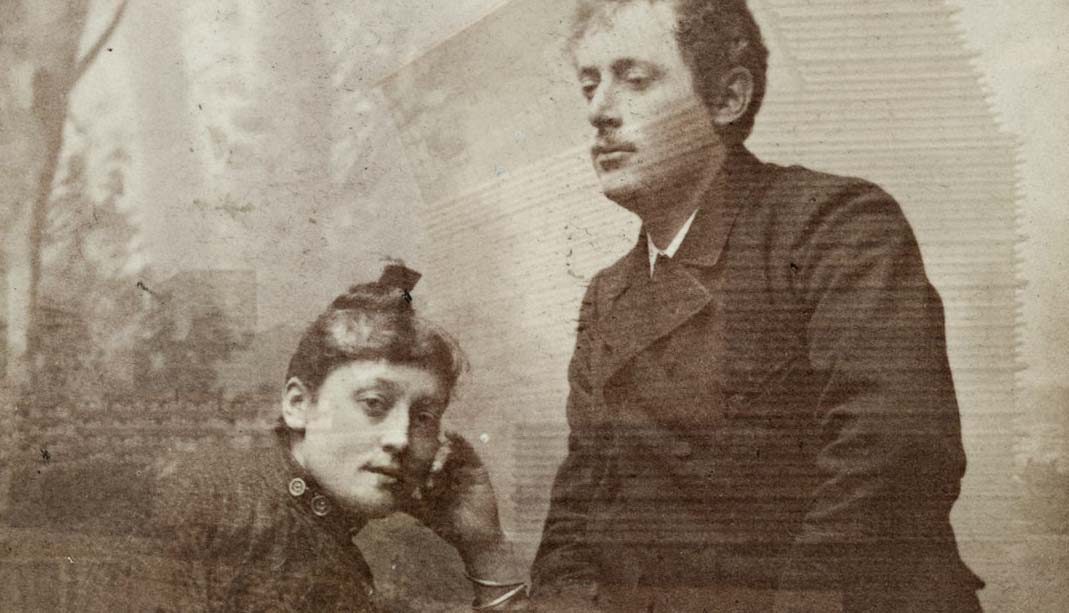
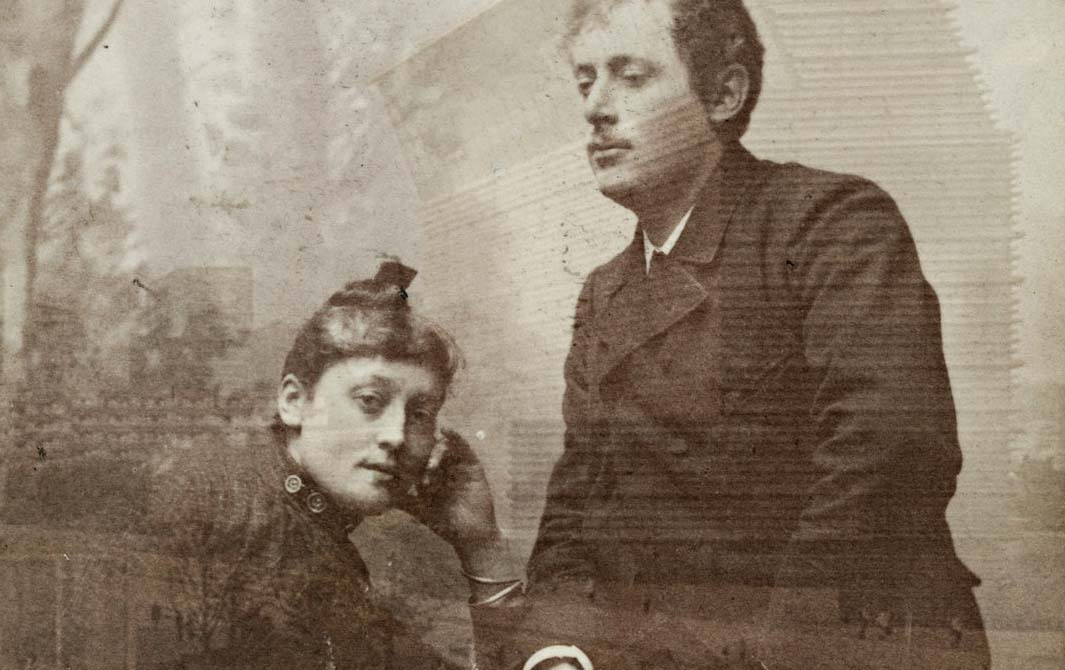
Added image overlay to landing page section

diff --git a/site/src/components/modules/LandingPageSection.tsx b/site/src/components/modules/LandingPageSection.tsx
@@ -41,9 +41,23 @@ export default function LandingPageSection({
               height={600}
             />
 
-            <p className="absolute top-0 my-10 w-full max-w-[30ch] px-8 text-4xl !leading-small text-white drop-shadow-lg lg:px-14 lg:text-5xl">
-              {section.attributes.ImageTitle}
-            </p>
+            {section.attributes.ImageTitle && (
+              <p className="absolute top-0 my-10 w-full max-w-[30ch] px-8 text-4xl !leading-small text-white drop-shadow-lg lg:px-14 lg:text-5xl">
+                {section.attributes.ImageTitle}
+              </p>
+            )}
+
+            {section.attributes.ImageOverlay && (
+              <div className="pointer-events-none absolute inset-0 grid place-items-center">
+                <Image
+                  src={section.attributes.ImageOverlay}
+                  alt=""
+                  width={280}
+                  height={280}
+                  className="object-contain drop-shadow-lg"
+                />
+              </div>
+            )}
           </Link>
 
           <div className="col-span-1 lg:hidden">

diff --git a/site/src/lib/data/api.js b/site/src/lib/data/api.js
@@ -8,9 +8,10 @@ const api = {
           Title: "Inger Munch og Akerselva",
           Subtitle: "Digital utstilling",
           Image: {
-            url: "/assets/exhibition-thumb.png",
+            url: "/assets/inger-edvard.jpg",
           },
           ImageTitle: "",
+          ImageOverlay: "/assets/ima-logo.svg",
           Description:
             "Inger Munch, søster av Edvard Munch, testamenterte ved sin død i 1952 over 200 negativer til Oslo Bymuseum. Blant negativene var mange av bildene i hennes bok «Akerselven» som ble utgitt i 1932. I 2022 er det 90 år siden boka kom ut, og 70 år siden Inger Munch døde. Vi markerer dette med utstillingen Inger Munch og Akerselva!",
           Link: {

diff --git a/site/src/components/modules/Footer.tsx b/site/src/components/modules/Footer.tsx
@@ -41,8 +41,8 @@ export default function Footer() {
         </div>
       </Container>
 
-      <Container className="flex flex-col gap-16 pt-36 pb-16 lg:flex-row lg:items-center">
-        <p className="text-white/50">
+      <Container className="flex flex-col gap-10 pt-36 pb-16 lg:flex-row lg:items-center">
+        <p className="text-sm text-white/50">
           Designet og utviklet av
           <br />
           <a

diff --git a/site/src/lib/validation/landingPageSection.ts b/site/src/lib/validation/landingPageSection.ts
@@ -6,7 +6,8 @@ export const apiLandingPageSection = z.object({
     NavigationTitle: z.string(),
     Title: z.string(),
     Subtitle: z.string(),
-    ImageTitle: z.string(),
+    ImageTitle: z.string().optional(),
+    ImageOverlay: z.string().optional(),
     Image: z.object({
       url: z.string(),
     }),
